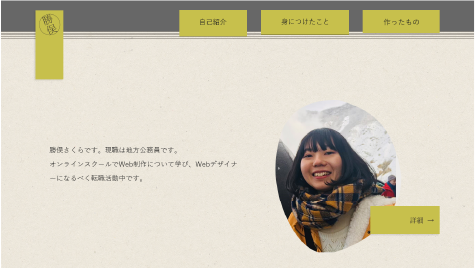
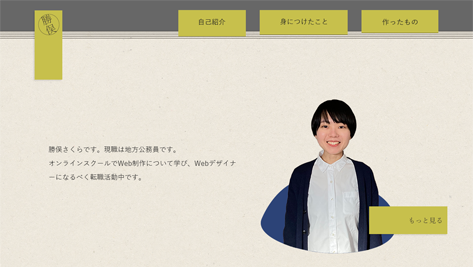
アップロード後修正１

diff --git a/works.html b/works.html
@@ -61,9 +61,9 @@
         </div>
         <nav class="sp-nav">
             <ul class="sp-nav-list">
-                <li><a href="profile.html">自己紹介</a></li>
-                <li><a href="skill.html">身につけたこと</a></li>
-                <li><a href="works.html">作ったもの</a></li>
+                <li><a href="profile.html">・自己紹介</a></li>
+                <li><a href="skill.html">・身につけたこと</a></li>
+                <li><a href="works.html">・作ったもの</a></li>
             </ul>
         </nav>
         <nav class="pc-nav">
@@ -84,13 +84,14 @@
                         <dt>概要</dt>
                         <dd>結婚式ムービーをアニメーションでオーダーメイドで作成するサービスをPRするサイトです（架空サイト）。</dd>
                         <dt>目的</dt>
-                        <dd>サイトを見てもらい、直接ムービー作成者にコンタクトをとってもらうこと</dd>
+                        <dd>式場や業者が作るムービーを検討するとき選択肢に入れてもらうために、作品の雰囲気を知ってもらい好感を持ってもらうこと</dd>
                         <dt>ターゲット</dt>
                         <dd>結婚披露宴を控える花嫁様で、自分達が出演するムービーに苦手意識がある方や、あまり写真を使いたくない方、少し違ったテイストでムービーを上映したい方。</dd>
                     </dl>
                     <dl>
                         <dt>そのデザインにした意図</dt>
-                        <dd>新郎新婦の日常を描いたムービーを提供したいので、飾りすぎず自然な印象を与えつつ、華やかなセレモニーで使ってもらうものだから、寂しくはならないようにしました。</dd>
+                        <dd>二人の歴史があって結婚に至ったことを表すため、各場面をつなぐ一本の曲線を背景に引きました。それをムービーに落とし込むサービスなので、曲線は最終的にロゴマークに行き着きます。
+                        <br>同業他社のサイトを調べたとき、お得感を出しすぎて結婚式のイメージとギャップがあるようなものが多かったので、「いつもの二人」を大切にするサービスの雰囲気を全面に出して、他社との差別化を図りました。</dd>
                         <dt>製作期間</dt>
                         <dd>企画：4時間<br>デザイン：14時間<br>コーディング：40時間</dd>
                         <dt>使ったもの</dt>
@@ -98,7 +99,7 @@
                     </dl>
                 </div>
             </div>
-            <a href="hitokoma/html.index">
+            <a href="hitokoma/index.html">
                 <div class="more">Webサイトへ</div>
             </a>
         </section>
@@ -117,7 +118,8 @@
                     </dl>
                     <dl>
                         <dt>そのデザインにした意図</dt>
-                        <dd>導入により業務態様が一新することを印象付けるため、ファーストビューの背景はコントラストが強い色の組み合わせにしました。情報量が多いため、色数を抑えることと、シンプルなレイアウトにすることで雑多な印象を与えないようにしました。</dd>
+                        <dd>導入により業務態様が一新することを印象付けるため、ファーストビューの背景はコントラストが強い色の組み合わせにしました。情報量が多いため、色数を抑えることと、シンプルなレイアウトにすることで雑多な印象を与えないようにしました。
+                        <br>SPでは最初から画面下にコンバージョンボタンを表示させています。PCでは、テキストが一部隠れることになり反射的に「邪魔だ」と思われる可能性が高かったため、ユーザビリティを優先し、なくしました。</dd>
                         <dt>製作期間</dt>
                         <dd>企画：8時間<br>デザイン：10時間<br>コーディング：21時間</dd>
                         <dt>使ったもの</dt>
@@ -125,7 +127,7 @@
                     </dl>
                 </div>
             </div>
-            <a href="smartcycle/html.index">
+            <a href="smartcycle/index.html" target="_blank" rel="noopener noreferrer">
                 <div class="more">Webサイトへ</div>
             </a>
         </section>
@@ -152,13 +154,13 @@
                     </dl>
                 </div>
             </div>
-            <a href="index.html">
+            <a href="index.html" target="_blank" rel="noopener noreferrer">
                 <div class="more">Webサイトへ</div>
             </a>
         </section>
         <section id="illust" class="work-section">
             <h1>イラスト制作</h1>
-            <p>通勤中や街中で見かけた、「なんかいいな」と思った人達をよく描いています。<br>何かのテーマに沿って描くときは、少し遊び心を入れるようにしています。</p>
+            <p>遊び心を大切にしながら絵を描いています。<br>通勤中や街中で見かけた「なんかいいな」と思った人達もよく描きます。</p>
             <div class="grid-layout">
                 <div class="grid-box">
                     <picture>

diff --git a/skill.html b/skill.html
@@ -61,9 +61,9 @@
         </div>
         <nav class="sp-nav">
             <ul class="sp-nav-list">
-                <li><a href="profile.html">自己紹介</a></li>
-                <li><a href="skill.html">身につけたこと</a></li>
-                <li><a href="works.html">作ったもの</a></li>
+                <li><a href="profile.html">・自己紹介</a></li>
+                <li><a href="skill.html">・身につけたこと</a></li>
+                <li><a href="works.html">・作ったもの</a></li>
             </ul>
         </nav>
         <nav class="pc-nav">
@@ -99,16 +99,16 @@
             <h1>学習で身につけたこと</h1>
             <div class="study-skill-container">
                 <div class="skill-box first">
-                    <h2>Photoshop/Illustrator</h2>
+                    <h2>Photoshop / Illustrator</h2>
                     <p>バナー作成、ロゴ作成、Webサイトのデザインカンプ作成ができます。ツールを使う段階から、コーディングでの実現可能性を考慮しつつデザインしています。</p>
                 </div>
                 <div class="skill-box middle">
-                    <h2>HTML/CSS</h2>
+                    <h2>HTML / CSS</h2>
                     <p>SEOを意識したHTMLのマークアップができます。CSSは、コメントを活用しチームで開発しやすく修正にも強い記述を心がけています。</p>
                 </div>
                 <div class="skill-box last">
                     <h2>jQuery</h2>
-                    <p>ハンバーガーメニュー、カルーセル、スライドショーの動きをつけることができます。ハンバーガーメニュー、カルーセル、スライドショーの動きをつけることが。</p>
+                    <p>ハンバーガーメニュー、カルーセルなどの動きをつけることができます。実現したい動きを自分で記述できるように、その都度調べて吸収しています。</p>
                 </div>
             </div>
         </section>
@@ -117,6 +117,10 @@
             <!-- <img src="./images/skill/dashed_line.svg" alt=""> -->
             <h1>学習中のこと</h1>
             <div class="studying-skill-container">
+                <div class="skill-box first">
+                    <h2>Adobe XD</h2>
+                    <p>デザインカンプの作成ができます。UIデザイナーを目指したいので、プロトタイプも作成できるよう勉強中です。</p>
+                </div>
                 <div class="skill-box middle">
                     <h2>Git</h2>
                     <p>実務ではバージョン管理をしながら開発するのが一般的かと思ったので、ツールを使いながら慣れようとしています。</p>

diff --git a/index.html b/index.html
@@ -69,9 +69,9 @@
             </div>
             <nav class="sp-nav">
                 <ul class="sp-nav-list">
-                    <li><a href="profile.html">自己紹介</a></li>
-                    <li><a href="skill.html">身につけたこと</a></li>
-                    <li><a href="works.html">作ったもの</a></li>
+                    <li><a href="profile.html">・自己紹介</a></li>
+                    <li><a href="skill.html">・身につけたこと</a></li>
+                    <li><a href="works.html">・作ったもの</a></li>
                 </ul>
             </nav>
             <nav class="pc-nav">
@@ -86,7 +86,7 @@
             <section class="profile">
                 <p>勝俣さくらです。現職は地方公務員です。<br>オンラインスクールでWeb制作について学び、Webデザイナーになるべく転職活動中です。</p>
                 <div class="profile-box">
-                    <div class="profile-image"></div>
+                    <img src="images/profile/picture.png" class="profile-image" alt="プロフィール写真">
                     <a href="profile.html">
                         <div class="more">もっと見る</div>
                     </a>
@@ -159,6 +159,9 @@
     <script src="./js/hamburger.js"></script>
     <script src="./js/fadeup.js"></script>
     <script src="./js/transition.js"></script>
+    <script src="https://code.jquery.com/jquery-3.4.1.min.js" integrity="sha256-CSXorXvZcTkaix6Yvo6HppcZGetbYMGWSFlBw8HfCJo=" crossorigin="anonymous"></script>
+    <script src="https://cdnjs.cloudflare.com/ajax/libs/jquery-cookie/1.4.1/jquery.cookie.js"></script>
+    <script src="./js/noloading.js"></script>
 
 </body>
 

diff --git a/js/noloading.js b/js/noloading.js
@@ -1,0 +1,29 @@
+//同じ日付で2回目以降ならローディング画面非表示の設定
+
+var splash_text = $.cookie('accessdate'); //キーが入っていれば年月日を取得
+var myD = new Date();//日付データを取得
+var myYear = String(myD.getFullYear());//年
+var myMonth = String(myD.getMonth() + 1);//月
+var myDate = String(myD.getDate());//日
+    
+if (splash_text != myYear + myMonth + myDate) {//cookieデータとアクセスした日付を比較↓
+        $("#splash").css("display", "block");//１回目はローディングを表示
+        setTimeout(function () {
+            $("#splash_logo").fadeIn(1000, function () {//1000ミリ秒（1秒）かけてロゴがフェードイン
+                setTimeout(function () {
+            $("#splash_logo").fadeOut(1000);//1000ミリ秒（1秒）かけてロゴがフェードアウト
+                }, 1000);//1000ミリ秒（1秒）後に処理を実行
+        setTimeout(function () {
+            $("#splash").fadeOut(1000, function () {//1000ミリ秒（1秒）かけて画面がフェードアウト
+            var myD = new Date();
+            var myYear = String(myD.getFullYear());
+            var myMonth = String(myD.getMonth() + 1);
+            var myDate = String(myD.getDate());
+            $.cookie('accessdate', myYear + myMonth + myDate); //accessdateキーで年月日を記録
+        });
+        }, 1700);//1700ミリ秒（1.7秒）後に処理を実行
+    });
+}, 1000);//1000ミリ秒（1秒）後に処理を実行
+}else {
+    $("#splash").css("display", "none");//同日2回目のアクセスでローディング画面非表示
+}  

diff --git a/profile.html b/profile.html
@@ -40,9 +40,9 @@
         })(document);
     </script>
 
-   <!-- favicon -->
+    <!-- favicon -->
     <link rel="shortcut icon" href="./favicon.ico">
- 
+
 </head>
 
 <body>
@@ -61,9 +61,9 @@
         </div>
         <nav class="sp-nav">
             <ul class="sp-nav-list">
-                <li><a href="profile.html">自己紹介</a></li>
-                <li><a href="skill.html">身につけたこと</a></li>
-                <li><a href="works.html">作ったもの</a></li>
+                <li><a href="profile.html">・自己紹介</a></li>
+                <li><a href="skill.html">・身につけたこと</a></li>
+                <li><a href="works.html">・作ったもの</a></li>
             </ul>
         </nav>
         <nav class="pc-nav">
@@ -78,7 +78,7 @@
         <section class="profile">
             <p>勝俣さくらです。現職は地方公務員です。<br>オンラインスクールでWeb制作について学び、Webデザイナーになるべく転職活動中です。</p>
             <div class="profile-box">
-                <div class="profile-image"></div>
+                <img src="images/profile/picture.png" class="profile-image" alt="プロフィール写真">
                 <div class="scrolldown"><span>SCROLL</span></div>
             </div>
         </section>

diff --git a/css/style.css b/css/style.css
@@ -278,7 +278,7 @@ header::before {
 }
 
 ul.sp-nav-list {
-  list-style: inside;
+  list-style: none;
 }
 
 .pc-nav {
@@ -396,18 +396,14 @@ ul.sp-nav-list {
   }
 }
 .profile .profile-image {
-  width: 19.8rem;
+  width: 21.8rem;
   height: 24.3rem;
-  border-radius: 67% 33% 57% 43%/35% 68% 32% 65%;
-  background-image: url(../images/profile/picture.jpg);
-  background-size: cover;
   margin-left: 8rem;
 }
 @media (min-width: 769px) {
   .profile .profile-image {
-    width: 35.1rem;
-    height: 43.1rem;
-    background-image: url(../images/profile/picture_pc.jpg);
+    width: 37.1rem;
+    height: 42.1rem;
     background-size: cover;
   }
 }
@@ -417,13 +413,13 @@ ul.sp-nav-list {
 }
 .profile-box .more {
   position: absolute;
-  top: 2rem;
+  top: 19rem;
   left: 19.8rem;
 }
 @media (min-width: 769px) {
   .profile-box .more {
-    top: 34rem;
-    left: 28rem;
+    top: 27rem;
+    left: 37rem;
   }
 }
 

diff --git a/css/_profile.scss b/css/_profile.scss
@@ -26,17 +26,13 @@
     }
 
     .profile-image {
-        width: 19.8rem;
+        width: 21.8rem;
         height: 24.3rem;
-        border-radius: 67% 33% 57% 43% / 35% 68% 32% 65% ;
-        background-image: url(../images/profile/picture.jpg);
-        background-size: cover;
         margin-left: 8rem;
 
         @media #{$large} {
-            width: 35.1rem;
-            height: 43.1rem;
-            background-image: url(../images/profile/picture_pc.jpg);
+            width: 37.1rem;
+            height: 42.1rem;
             background-size: cover;
 
         }
@@ -49,12 +45,12 @@
 
     .more {
         position: absolute;
-        top: 2rem;
+        top: 19rem;
         left: 19.8rem;
 
         @media #{$large} {
-            top: 34rem;
-            left: 28rem;
+            top: 27rem;
+            left: 37rem;
         }
     }
 }

diff --git a/css/_header.scss b/css/_header.scss
@@ -138,7 +138,7 @@ header {
 }
 
 ul.sp-nav-list {
-    list-style: inside;
+    list-style: none;
 }
 
 .pc-nav {
